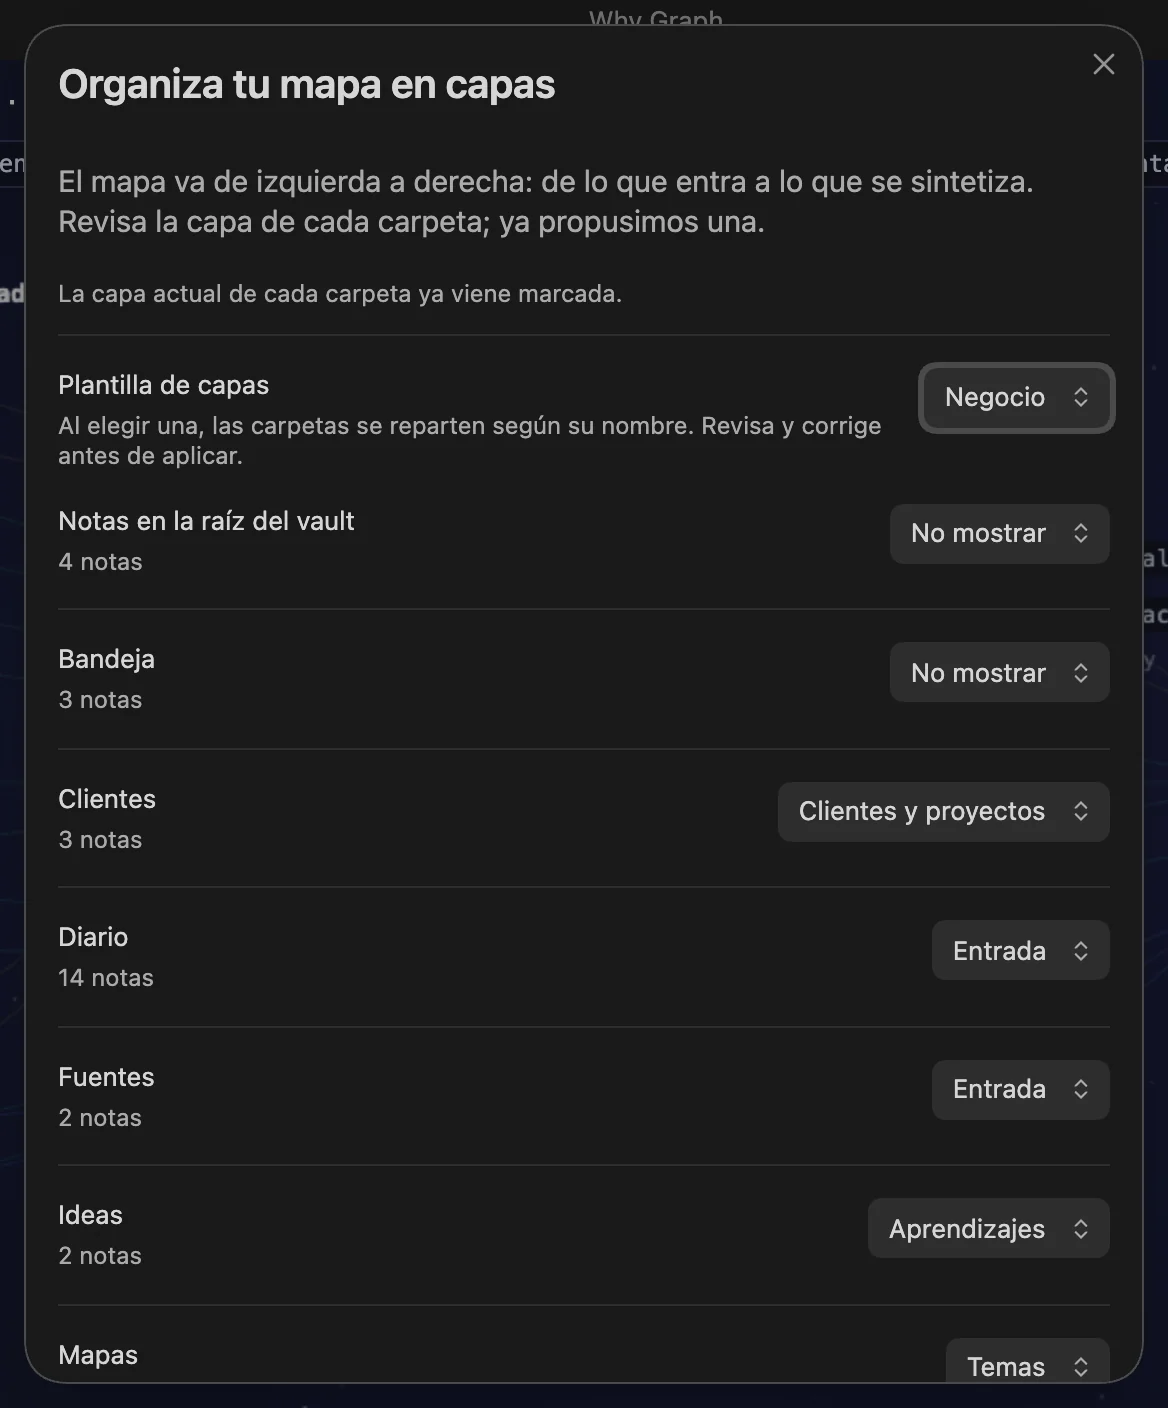
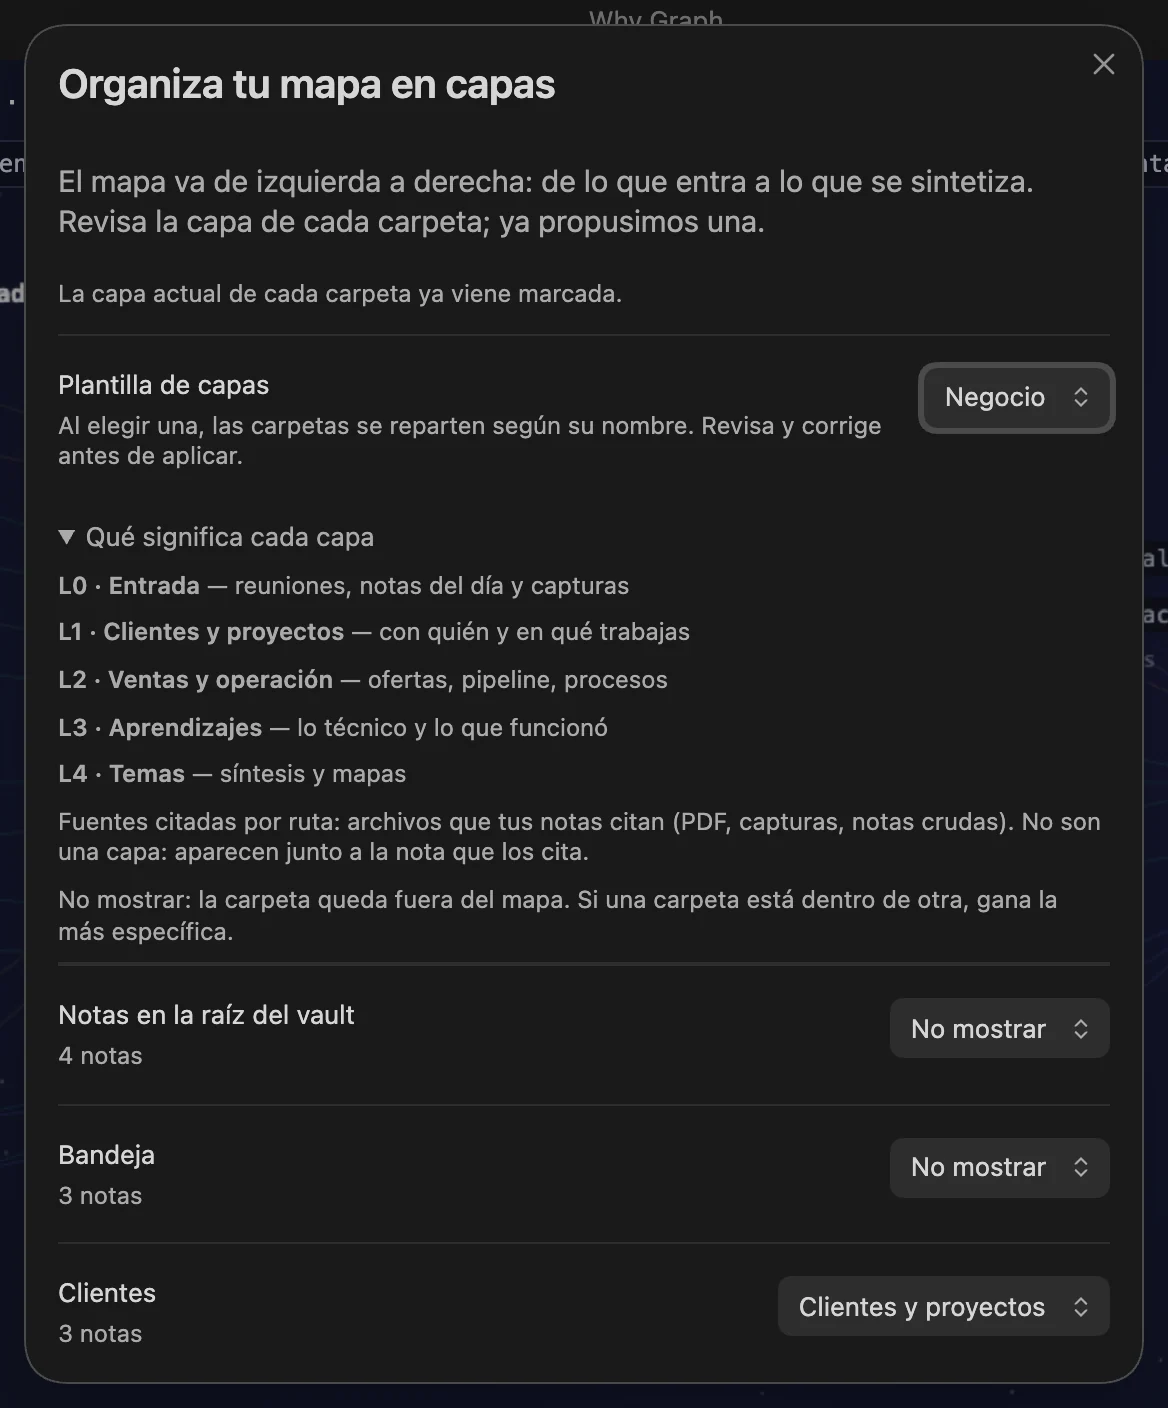
1.32.0 — issues #19 y #20: «Abrir» traducido y qué significa cada capa
- #19: el botón «Abrir» del panel salía en español con Obsidian en inglés. Ahora pasa por T(),
  y la prueba de idioma falla si un texto visible se escribe sin T().
- #20: el asistente explica cada capa de la plantilla elegida, las fuentes citadas y «No mostrar»
  («Qué significa cada capa», plegado). Las preferencias por carpeta ya se conservan desde 1.28.
- README y captura del asistente actualizados.

Código generado con Claude Code.

diff --git a/src/main.js b/src/main.js
@@ -381,7 +381,11 @@ const EN = {
   'Plantilla de capas': 'Layer template',
   'LLM wiki': 'LLM wiki',
   'Profesional (normas y servicios)': 'Professional (rules and services)',
+  'Abrir': 'Open',
   'Negocio': 'Business',
+  'Qué significa cada capa': 'What each layer means',
+  'Fuentes citadas por ruta: archivos que tus notas citan (PDF, capturas, notas crudas). No son una capa: aparecen junto a la nota que los cita.': 'Sources cited by path: files your notes cite (PDFs, screenshots, raw notes). They are not a layer: they show up next to the note that cites them.',
+  'No mostrar: la carpeta queda fuera del mapa. Si una carpeta está dentro de otra, gana la más específica.': 'Don\'t show: the folder stays off the map. When one folder is inside another, the more specific one wins.',
   'Clientes y proyectos': 'Clients and projects',
   'con quién y en qué trabajas': 'who you work with and on what',
   'Ventas y operación': 'Sales and operations',
@@ -1015,6 +1019,16 @@ class AsistenteCapas extends Modal {
     const pintarFilas = () => {
       cuerpo.empty();
       const capas = capasDe(), traducir = this.plantilla !== 'actual';
+      // Qué es cada capa (pedido en el issue #20): el nombre solo no alcanza para decidir.
+      const leyenda = cuerpo.createEl('details', { cls: 'mn-asistente-leyenda' });
+      leyenda.createEl('summary', { text: T('Qué significa cada capa') });
+      capas.forEach(([nombre, desc], i) => {
+        const l = leyenda.createDiv({ cls: 'setting-item-description' });
+        l.createEl('strong', { text: `L${i} · ${traducir ? T(nombre) : nombre}` });
+        if (desc) l.appendText(` — ${traducir ? T(desc) : desc}`);
+      });
+      leyenda.createDiv({ cls: 'setting-item-description', text: T('Fuentes citadas por ruta: archivos que tus notas citan (PDF, capturas, notas crudas). No son una capa: aparecen junto a la nota que los cita.') });
+      leyenda.createDiv({ cls: 'setting-item-description', text: T('No mostrar: la carpeta queda fuera del mapa. Si una carpeta está dentro de otra, gana la más específica.') });
       const opciones = Object.fromEntries(capas.map((x, i) => [String(i), traducir ? T(x[0]) : x[0]]));
       opciones['-2'] = T('Fuentes citadas por ruta'); opciones['-1'] = T('No mostrar');
       for (const fila of filas) {
@@ -1898,7 +1912,7 @@ class VistaMapa extends ItemView {
     if (n.updated) meta.push(`actualizada ${n.updated.slice(0, 10)}`);
     cab.createDiv({ cls: 'mn-meta', text: meta.join(' · ') });
     const acciones = cab.createDiv('mn-acciones');
-    if (!n.virtual && !(n.fuente && (n.rota || n.grupo))) this.boton(acciones, 'file-text', 'Abrir', () => this.abrirNota(n.ruta), true);
+    if (!n.virtual && !(n.fuente && (n.rota || n.grupo))) this.boton(acciones, 'file-text', T('Abrir'), () => this.abrirNota(n.ruta), true);
     if (!this.radial) this.boton(acciones, 'orbit', T('Radial'), () => { this.radial = true; this.foco = n.id; this.medir(); this.encuadrar(); this.pintarEstado(); });
     this.boton(acciones, 'route', T('Camino'), () => { this.eligiendo = { desde: n.id }; this.abrirPanel(null); new Notice(T('Toca la nota de destino')); this.pintarEstado(); this.pedir(); });
     if (n.tema && (n.agrupados || n.capa === ultima)) this.boton(acciones, this.colapsados.has(n.tema) ? 'maximize-2' : 'minimize-2', this.colapsados.has(n.tema) ? 'Expandir' : 'Colapsar', () => this.alternarColapso(n.tema));

diff --git a/styles.css b/styles.css
@@ -186,3 +186,8 @@
 .mn-ajuste-ia > .setting-item-description { margin: 0 0 var(--size-4-2); }
 /* La fila contenedora ya trae su margen: las filas de adentro no suman otro, así todo queda alineado. */
 .setting-item.mn-ajuste-ia > .setting-item { padding-inline: 0; }
+
+/* Asistente: «Qué significa cada capa», plegado y con la letra de las descripciones. */
+.mn-asistente-leyenda { padding: var(--size-4-2) 0; border-bottom: 1px solid var(--background-modifier-border); }
+.mn-asistente-leyenda > summary { font-size: var(--font-ui-small); color: var(--text-muted); cursor: pointer; }
+.mn-asistente-leyenda > .setting-item-description { margin-top: var(--size-4-1); }

diff --git a/README.es.md b/README.es.md
@@ -98,7 +98,8 @@ Se abre con el comando **Abrir mapa neuronal** (`Cmd/Ctrl+P`) o con el ícono de
    Conocimiento / Temas / No mostrar). Cambia lo que se vea mal y aprieta Aplicar. Arriba puedes
    elegir otra plantilla de capas: LLM wiki, negocio (clientes y proyectos → ventas y operación),
    profesional (normas y servicios), académico o Zettelkasten. Al elegir una, tus carpetas se
-   reparten por su nombre; las que tenías en *No mostrar* siguen ocultas. No se crea ni se mueve
+   reparten por su nombre; las que tenías en *No mostrar* siguen ocultas, y *Qué significa cada capa*
+   explica cada columna. No se crea ni se mueve
    nada en tu vault: una plantilla solo nombra las columnas. Si vuelves a abrirlo más tarde, arranca
    con las capas que ya tienes.
 2. **Toca cualquier nota.** El panel lateral nombra su capa, su tema, un resumen de dos líneas y

diff --git a/README.md b/README.md
@@ -98,7 +98,8 @@ Open it with the command **Open neural map** (`Cmd/Ctrl+P`) or the brain icon in
    Knowledge / Topics / Don't show). Change what looks wrong and press Apply. Up top you can pick
    another layer template: LLM wiki, business (clients and projects → sales and operations),
    professional (rules and services), academic or Zettelkasten. Picking one re-sorts your folders
-   by name; folders you set to *Don't show* stay hidden. Nothing is created or moved in your vault:
+   by name; folders you set to *Don't show* stay hidden, and *What each layer means* explains every
+   column. Nothing is created or moved in your vault:
    a template only names the columns. Open it again later and it starts from the layers you have.
 2. **Click any note.** The side panel names its layer, its topic, a two-line summary and every
    link with its reason.
